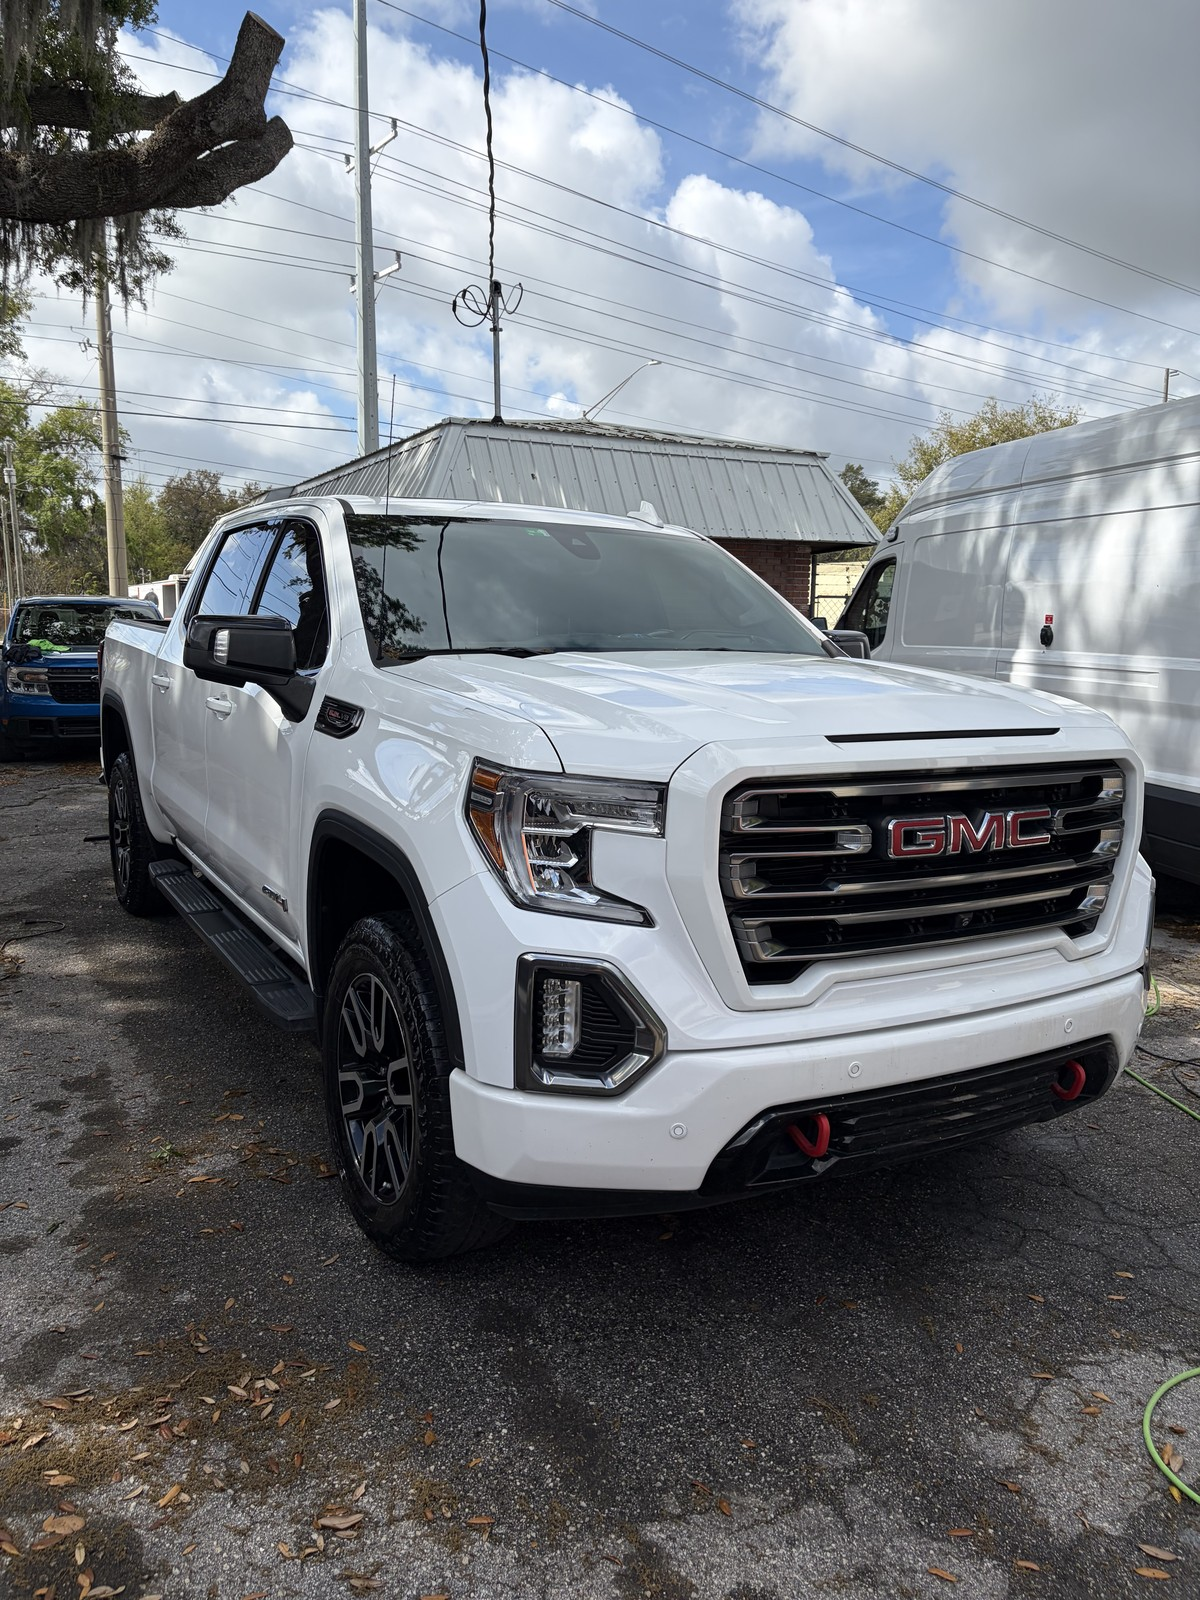
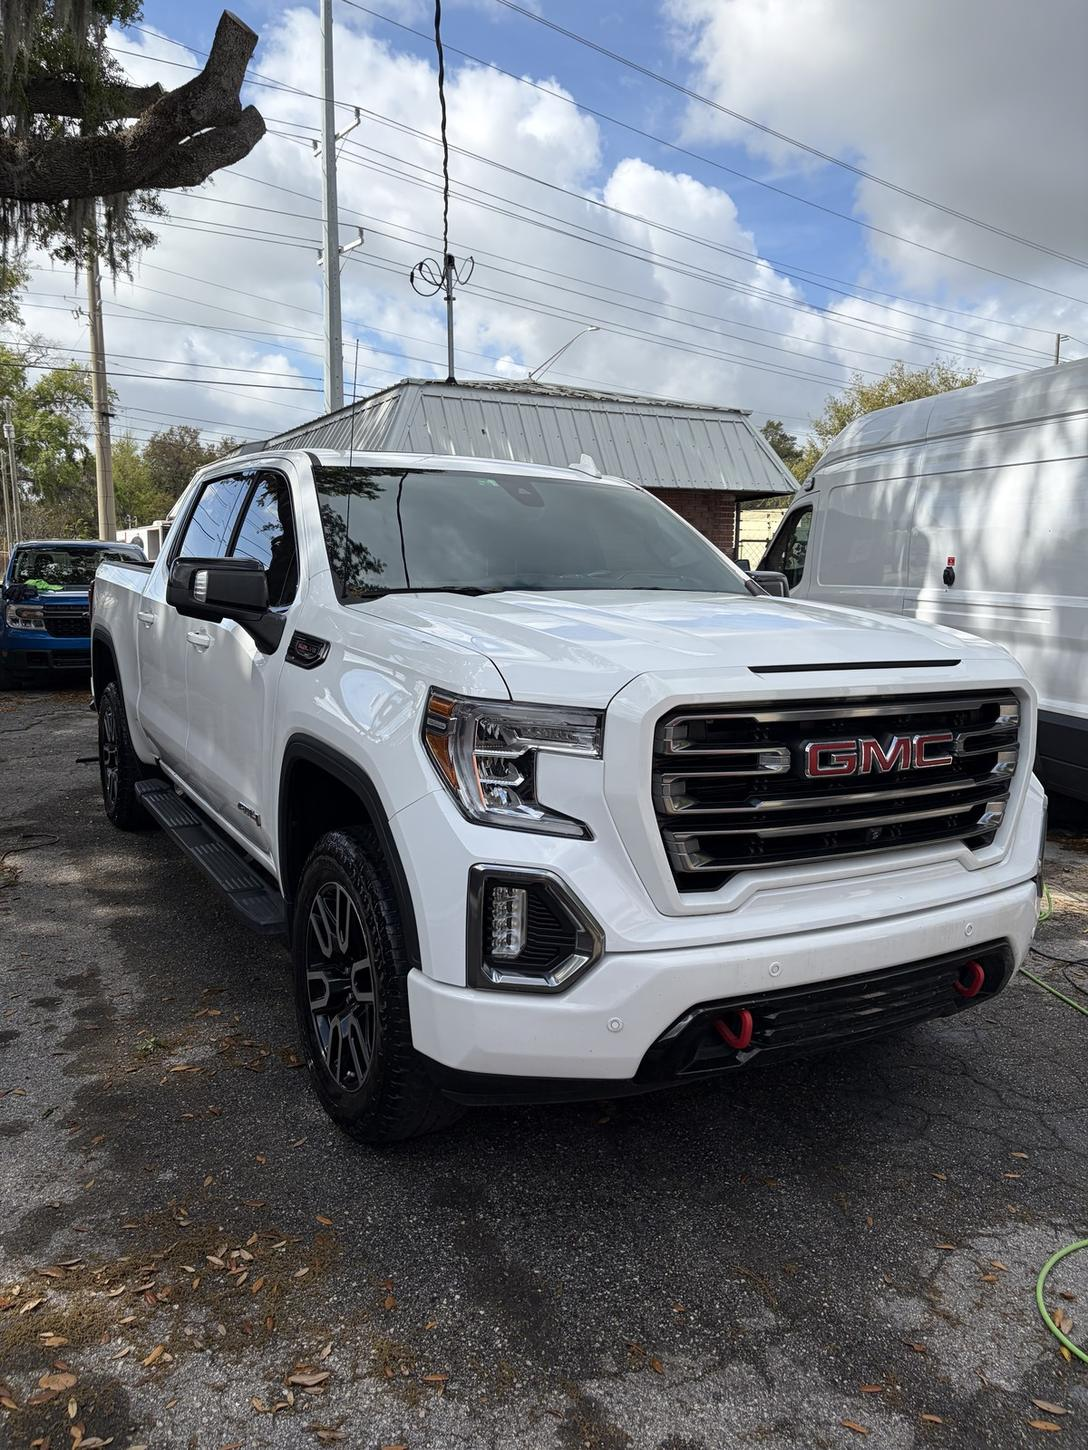
Add 26 gallery photos from Drive; compress the existing 18
Twenty-six photos pulled straight from the shared Drive folder. They
arrived as iPhone HEICs, which browsers can't all display, so each was
decoded once and written as a progressive JPEG — no stacked
recompression. Longest edge 1600px, dropping to 1450/1300/1150 for the
six most detailed shots, which is what it took to clear 300 KB without
visibly softening them. Every new file lands at 233-296 KB.

Two files in the folder could not be fetched: IMG_8297.PNG (7.3 MB) and
IMG_8606.PNG (8.3 MB). Both are over the Drive connector's message limit
and are not included here.

The existing 18 gallery photos were never compressed — they ran 395 KB to
859 KB. With the gallery going from 18 photos to 44 that would have made
the page slow on a phone, so each was resized and re-encoded under the
same 300 KB ceiling. The gallery folder is now 12 MB, averaging 276 KB a
photo.

Captions follow the existing "<Vehicle> — <Area>" pattern and every photo
has its own alt text for search.

Claude-Session: https://claude.ai/code/session_01AXLB6VMi75gcfofEZMiCKf

diff --git a/data/gallery.ts b/data/gallery.ts
@@ -113,4 +113,134 @@ export const GALLERY_PHOTOS: GalleryPhoto[] = [
     caption: "Range Rover — Interior",
     alt: "Interior detail on the tan leather seats of a Range Rover",
   },
+  {
+    file: "lincoln-mkz-exterior.jpg",
+    caption: "Lincoln MKZ — Exterior",
+    alt: "Exterior detail on a white Lincoln MKZ in Lakeland, Florida",
+  },
+  {
+    file: "lincoln-mkz-interior.jpg",
+    caption: "Lincoln MKZ — Interior",
+    alt: "Interior detail on the cream leather front seats of a Lincoln MKZ",
+  },
+  {
+    file: "ford-explorer-exterior-maroon.jpg",
+    caption: "Ford Explorer — Exterior",
+    alt: "Exterior detail on a maroon Ford Explorer in Lakeland, Florida",
+  },
+  {
+    file: "saab-93-exterior.jpg",
+    caption: "Saab 9-3 — Exterior",
+    alt: "Exterior detail on a dark blue Saab 9-3 convertible",
+  },
+  {
+    file: "gmc-acadia-exterior.jpg",
+    caption: "GMC Acadia — Exterior",
+    alt: "Exterior detail on a white GMC Acadia in Lakeland, Florida",
+  },
+  {
+    file: "toyota-sienna-exterior.jpg",
+    caption: "Toyota Sienna — Exterior",
+    alt: "Exterior detail on a red Toyota Sienna minivan",
+  },
+  {
+    file: "toyota-sienna-interior.jpg",
+    caption: "Toyota Sienna — Interior",
+    alt: "Interior detail on the tan front seats of a Toyota Sienna",
+  },
+  {
+    file: "jeep-grand-cherokee-exterior.jpg",
+    caption: "Jeep Grand Cherokee — Exterior",
+    alt: "Exterior detail on a white Jeep Grand Cherokee in Lakeland, Florida",
+  },
+  {
+    file: "large-suv-cargo-area.jpg",
+    caption: "Large SUV — Cargo area",
+    alt: "Detailed cargo area and folded rear seats in a large SUV",
+  },
+  {
+    file: "lincoln-navigator-interior-front.jpg",
+    caption: "Lincoln Navigator — Interior",
+    alt: "Interior detail on the front seats and floor of a Lincoln Navigator",
+  },
+  {
+    file: "lincoln-wheel-detail.jpg",
+    caption: "Lincoln — Wheel detail",
+    alt: "Cleaned and dressed wheel and tire on a Lincoln",
+  },
+  {
+    file: "lincoln-aviator-interior.jpg",
+    caption: "Lincoln Aviator — Interior",
+    alt: "Interior detail on the front seats of a Lincoln Aviator",
+  },
+  {
+    file: "lincoln-navigator-exterior-white.jpg",
+    caption: "Lincoln Navigator — Exterior",
+    alt: "Exterior detail on a white Lincoln Navigator in Lakeland, Florida",
+  },
+  {
+    file: "ford-f150-exterior-black.jpg",
+    caption: "Ford F-150 — Exterior",
+    alt: "Exterior detail on a black Ford F-150 pickup",
+  },
+  {
+    file: "mercedes-amg-gle-interior.jpg",
+    caption: "Mercedes-AMG GLE — Interior",
+    alt: "Interior detail on the front seats of a Mercedes-AMG GLE",
+  },
+  {
+    file: "ford-expedition-exterior-twotone.jpg",
+    caption: "Ford Expedition — Exterior",
+    alt: "Exterior detail on a two-tone Ford Expedition in Lakeland, Florida",
+  },
+  {
+    file: "dodge-charger-interior.jpg",
+    caption: "Dodge Charger — Interior",
+    alt: "Interior detail on the front seats of a Dodge Charger",
+  },
+  {
+    file: "ford-f150-exterior-red.jpg",
+    caption: "Ford F-150 — Exterior",
+    alt: "Exterior detail on a red Ford F-150 pickup in Lakeland, Florida",
+  },
+  {
+    file: "ford-f150-interior.jpg",
+    caption: "Ford F-150 — Interior",
+    alt: "Interior detail on the front seats of a Ford F-150",
+  },
+  {
+    file: "toyota-tacoma-interior-gallery.jpg",
+    caption: "Toyota Tacoma — Interior",
+    alt: "Interior detail on the front seats and console of a Toyota Tacoma",
+  },
+  {
+    file: "lincoln-navigator-front-seats.jpg",
+    caption: "Lincoln Navigator — Front seats",
+    alt: "Interior detail on the brown leather front seats of a Lincoln Navigator",
+  },
+  {
+    file: "ford-f250-exterior.jpg",
+    caption: "Ford F-250 — Exterior",
+    alt: "Exterior detail on a black Ford F-250 long bed pickup",
+  },
+  {
+    file: "ford-expedition-exterior-black.jpg",
+    caption: "Ford Expedition — Exterior",
+    alt: "Exterior detail on a black Ford Expedition in Lakeland, Florida",
+  },
+  {
+    file: "ford-expedition-interior.jpg",
+    caption: "Ford Expedition — Interior",
+    alt: "Interior detail on the tan leather front seats of a Ford Expedition",
+  },
+  {
+    file: "gmc-sierra-denali-exterior.jpg",
+    caption: "GMC Sierra Denali — Exterior",
+    alt: "Exterior detail on a white GMC Sierra Denali pickup",
+  },
+  {
+    file: "gmc-sierra-interior.jpg",
+    caption: "GMC Sierra — Interior",
+    alt: "Interior detail on the front seats of a GMC Sierra",
+  },
 ];
